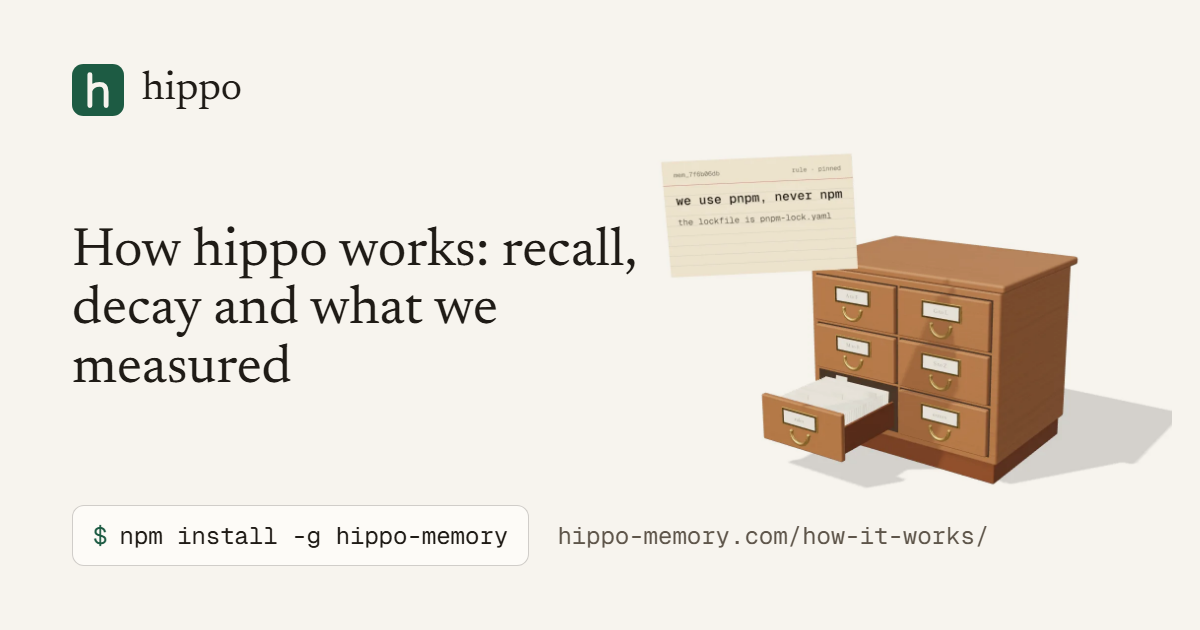
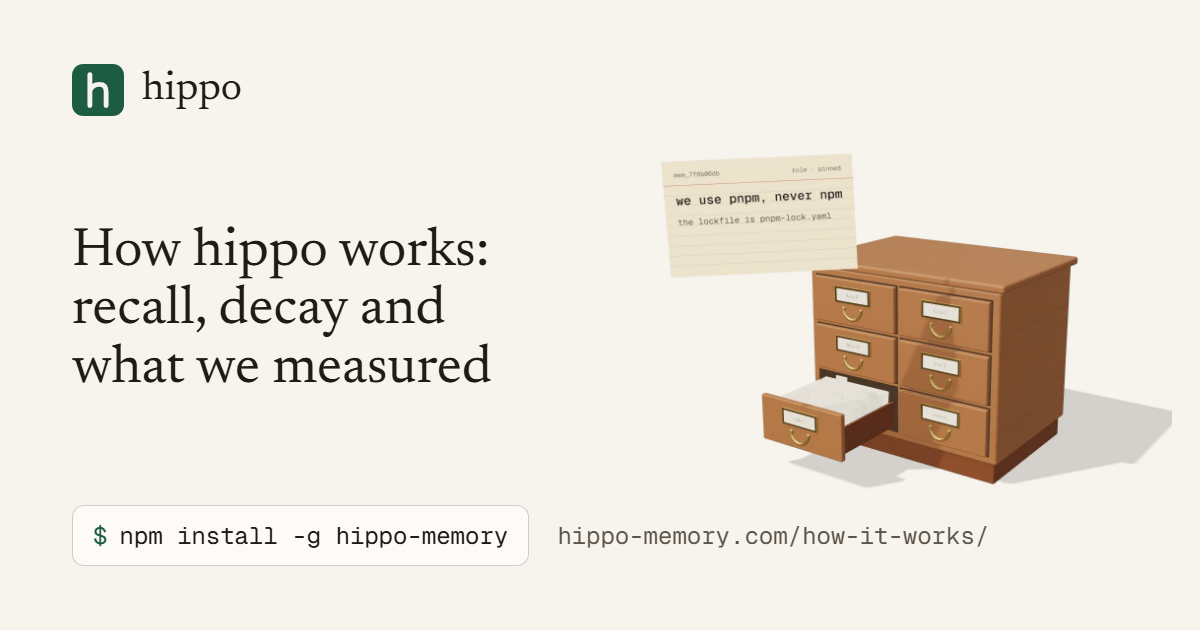
fix: keep site share cards in step with page titles
The home share card still showed the title from before the new home
page, because make-images is a manual step and nobody ran it after the
title changed. X and LinkedIn also cache a card image by its URL, and
/og/home.png kept one URL across every redraw.

- make-images records each card's title in scripts/og-titles.json, and
  check-build fails when a page title differs from its card's, with the
  commands that fix it.
- Head.astro adds a hash of the card image to its URL, so a redrawn card
  is a new link that social sites fetch again.
- The cards are redrawn: home now shows the current title, and every
  card title is balanced across its lines.

Claude-Session: https://claude.ai/code/session_01LisLYouLXJoAUVXS7eMj7F

Changed region(s): [[0.0617, 0.4524, 0.4317, 0.5127], [0.0617, 0.5429, 0.4317, 0.6032], [0.4008, 0.3619, 0.5242, 0.4222]]

diff --git a/website/README.md b/website/README.md
@@ -21,7 +21,10 @@ Graph card per page (`public/og/<slug>.png`, captioned with the page's `<title>`
 reads the built pages, so after adding a page or changing a title run `npm run build`,
 then `node scripts/make-images.mjs`, then `npm run build` again so the page links its own
 card; a page without one uses `/og/home.png`. It needs Chrome (`CHROME=<path>` if Chrome
-is not in its default place). `--social <file.png>` also draws the 1280x640 GitHub social
+is not in its default place). It records each card's title in `scripts/og-titles.json`, and
+`npm run build` fails when a page title differs from its card's, so a card never keeps an old
+caption. The card link carries a hash of the image (`/og/home.png?v=<hash>`), because X and
+LinkedIn keep an image they fetched under the same link. `--social <file.png>` also draws the 1280x640 GitHub social
 preview, which is uploaded by hand in the repo settings.
 
 ## Deploy (Cloudflare Pages)

diff --git a/changelog.d/fix-og-card-freshness.md b/changelog.d/fix-og-card-freshness.md
@@ -1,0 +1,3 @@
+### Fixed
+
+- **hippo-memory.com share cards show each page's current title.** The home card still showed the title from before the new home page, so a link posted to X or LinkedIn showed old text. `npm run build` now fails when a page title differs from its card's, and each card link carries a hash of the image, so a redrawn card gets a new link that X and LinkedIn fetch again.
